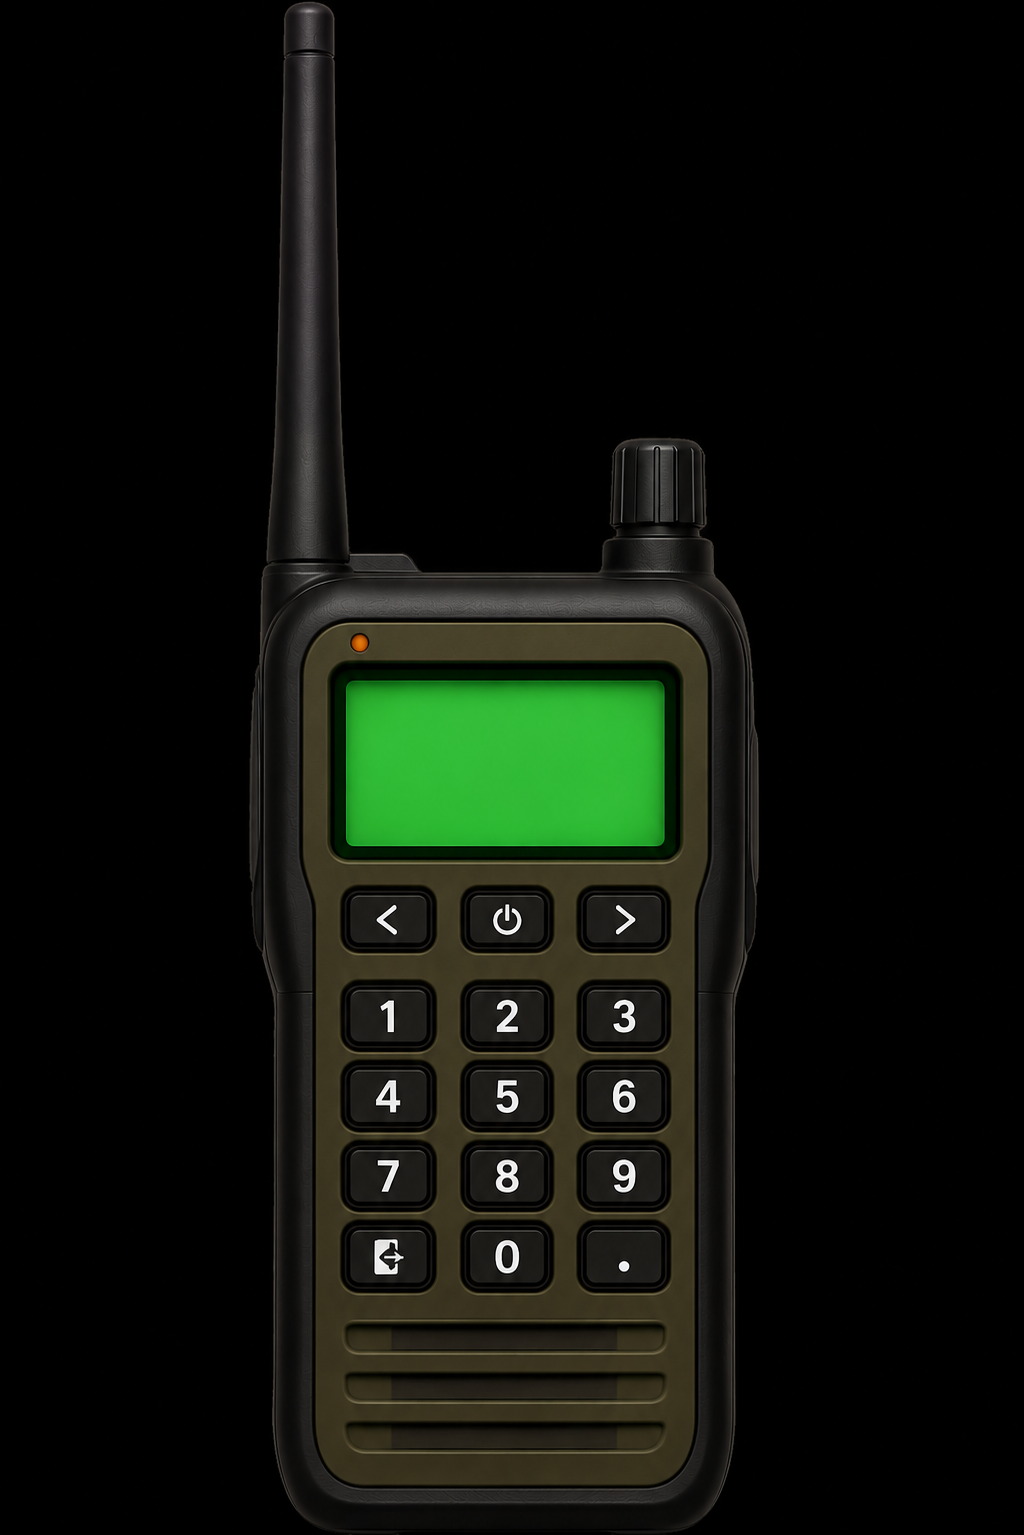
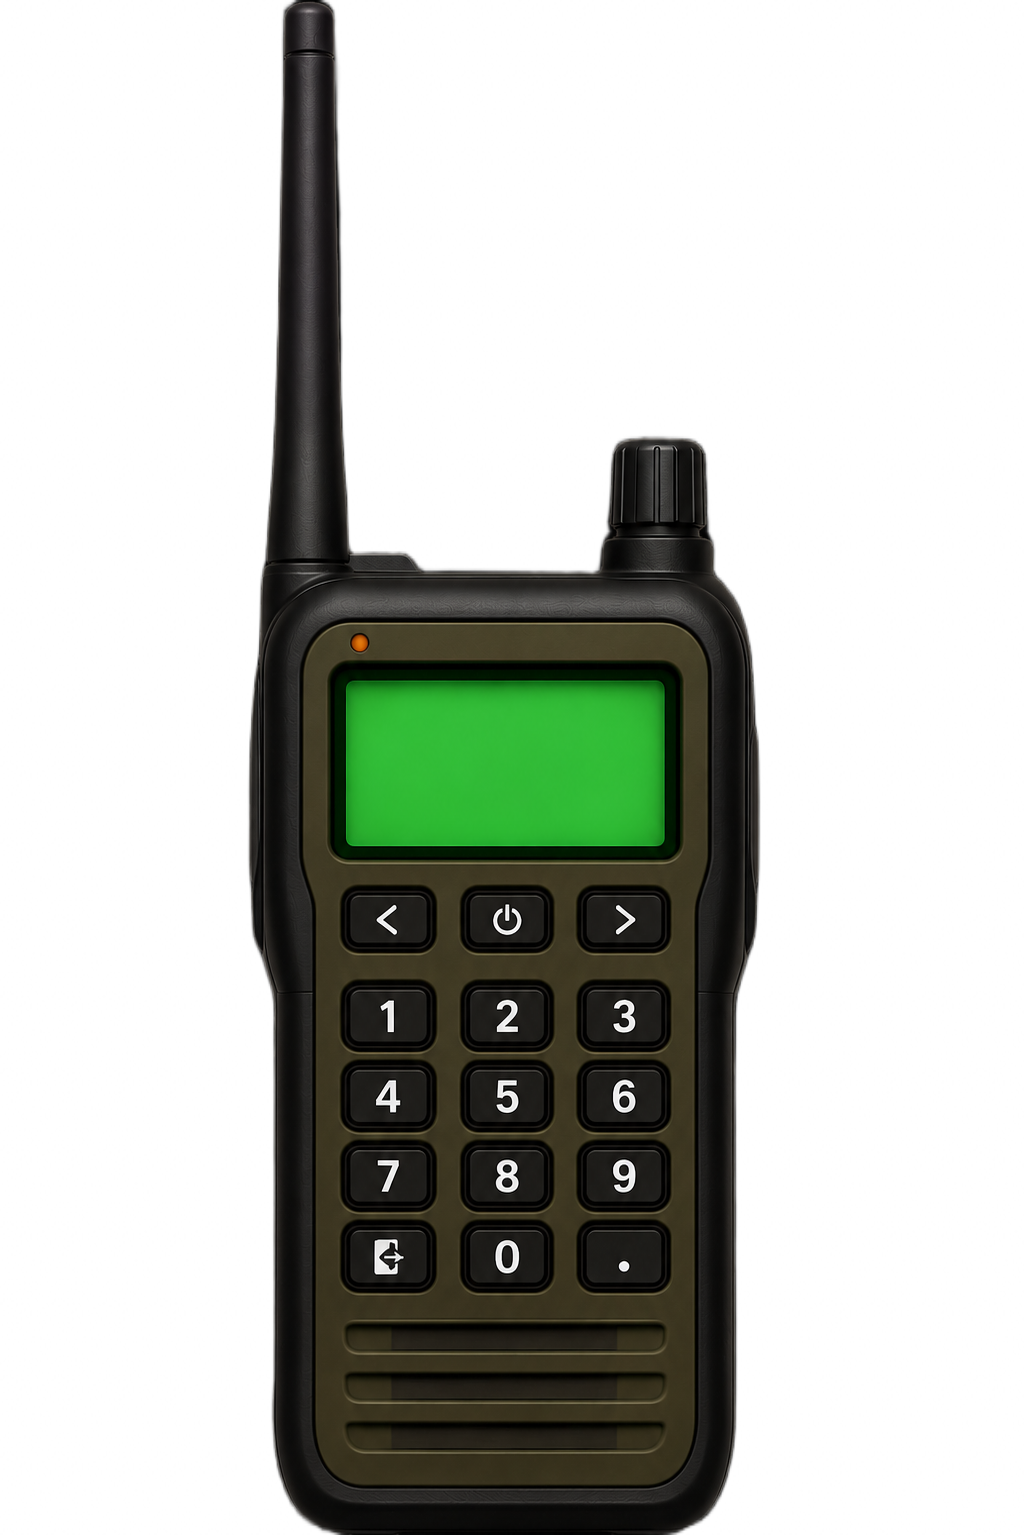
#

diff --git a/resources/[standalone]/lenix_snipets/src/web/src/apps/radio.tsx b/resources/[standalone]/lenix_snipets/src/web/src/apps/radio.tsx
@@ -1,9 +1,63 @@
+import { useEffect, useState } from "react"
+import { DEV } from ".."
+
+const triggerCallback = (callback: string, data: Record<string, any>) => fetch(`https://${(window as any).GetParentResourceName()}/${callback}`, {
+	method: 'post',
+	headers: {
+		'Content-Type': 'application/json; charset=UTF-8',
+	},
+	body: JSON.stringify(data)
+})
+
 export default () => {
+	const [display, setDisplay] = useState(DEV)
+	const [frequency, setFreq] = useState<string>('')
+
+	useEffect(() => {
+		const handler = (event: MessageEvent) => {
+			const { key, value }: {
+				key: 'radio:display'
+				value: boolean
+			} = event.data
+			key === 'radio:display' && setDisplay(value)
+		}
+		
+		window.addEventListener('message', handler)
+		return () => window.removeEventListener('message', handler)
+	}, [])
+
+	window.addEventListener('keydown', (event: KeyboardEvent) => {
+		if (event.key !== 'Escape') return
+		
+		setDisplay(false)
+		triggerCallback('radio:close', {})
+	})
+
 	return (
-		<div className="w-full flex items-end h-full justify-end py-10">
-			<input className="absolute top-3/7 left-1/2 -translate-x-1/2 bg-green-500 max-w-1/3 h-10" type="number" name="freq" id="freq" title="Channel Frequency" />
-			<button className="absolute top-58/100 left-1/2 -translate-x-1/2 cursor-pointer hover:bg-gray-800 w-5 h-3" title="Turn On/Off The Radio"></button>
-			<img className="max-h-100 border border-white" src="/radio.png" />
+		<div className={`w-full flex items-end h-full justify-end py-10 opacity-${display ? '100' : '0'}`}>
+			<div className="relative inline-block">
+			<input 
+				className="absolute top-45/100 left-1/2 -translate-x-1/2 max-w-3/11 h-10 outline-0 text-center [appearance:textfield] [&::-webkit-outer-spin-button]:appearance-none [&::-webkit-inner-spin-button]:appearance-none" 
+				type="number" 
+				name="freq" 
+				id="freq"
+				title="Channel Frequency" 
+				placeholder="0"
+				value={frequency}
+				onChange={event => setFreq(event.currentTarget.value)}
+				onKeyDown={event => {
+					if (event.key !== 'Enter') return
+
+					triggerCallback('radio:frequency', { frequency })
+				}}
+			/>
+				<button
+					className="absolute top-80/100 left-38/100 -translate-x-1/2 cursor-pointer hover:bg-black/20 w-5 h-3"
+					title="Leave the frequency"
+					onClick={() => triggerCallback('radio:leave', {})}
+				/>
+				<img className={`max-h-100 ${DEV && 'border border-white'}`} src="/radio.png" />
+			</div>
 		</div>
 	)
 }

diff --git a/resources/[standalone]/lenix_snipets/src/web/src/apps/hud.tsx b/resources/[standalone]/lenix_snipets/src/web/src/apps/hud.tsx
@@ -21,18 +21,18 @@ export default () => {
 	useEffect(() => {
 		const handler = (event: MessageEvent) => {
 			const { key, value }: {
-				key: 'update:reserve'
+				key: 'hud:update:reserve'
 				value: Reserve
 			} | {
-				key: 'update:clip'
+				key: 'hud:update:clip'
 				value: Clip
 			} | {
-				key: 'display'
+				key: 'hud:display'
 				value: boolean
 			} = event.data
-			key === 'display' && setDisplay(value)
-			key === 'update:clip' && setState(prev => ({ clip: value.clip, reserve: prev.reserve }))
-			key === 'update:reserve' && setState(prev => ({ reserve: value.reserve, clip: prev.clip }))
+			key === 'hud:display' && setDisplay(value)
+			key === 'hud:update:clip' && setState(prev => ({ clip: value.clip, reserve: prev.reserve }))
+			key === 'hud:update:reserve' && setState(prev => ({ reserve: value.reserve, clip: prev.clip }))
 		}
 		
 		window.addEventListener('message', handler)

diff --git a/resources/[standalone]/lenix_snipets/src/client/radio/index.ts b/resources/[standalone]/lenix_snipets/src/client/radio/index.ts
@@ -1,0 +1,25 @@
+on('ox:radio', () => {
+	SendNuiMessage(JSON.stringify({
+		key: 'radio:display',
+		value: true
+	}))
+	SetNuiFocus(true, true)
+	SetNuiFocusKeepInput(true)
+})
+
+RegisterNuiCallback('radio:frequency', (data: { frequency: string }) => {
+	exports['pma-voice'].setRadioChannel(Number(data.frequency))
+	exports['pma-voice'].setVoiceProperty('radioEnabled', true)
+	exports['pma-voice'].setVoiceProperty('micClicks', true)
+})
+
+RegisterNuiCallback('radio:leave', () => {
+	exports['pma-voice'].setRadioChannel(0)
+	exports['pma-voice'].setVoiceProperty('radioEnabled', false)
+	exports['pma-voice'].setVoiceProperty('micClicks', false)
+})
+
+RegisterNuiCallback('radio:close', () => {
+	SetNuiFocus(false, false)
+	SetNuiFocusKeepInput(false)
+})

diff --git a/resources/[standalone]/lenix_snipets/src/client/hud/index.ts b/resources/[standalone]/lenix_snipets/src/client/hud/index.ts
@@ -9,12 +9,12 @@ let turnedOff = false
 
 const updateHud = ({ clip, reserve }: { clip?: string, reserve: string } | { clip: string, reserve?: string }) => {
 	SendNuiMessage(JSON.stringify({
-		key: `update:${clip ? 'clip' : 'reserve'}`,
+		key: `hud:update:${clip ? 'clip' : 'reserve'}`,
 		value: { clip, reserve }
 	}))
 }
 
-const toggleHud = (value: boolean) => SendNuiMessage(JSON.stringify({ key: 'display', value }))
+const toggleHud = (value: boolean) => SendNuiMessage(JSON.stringify({ key: 'hud:display', value }))
 
 
 const getReserve = (ammoName: string): number => exports.ox_inventory.Search('count', ammoName)

diff --git a/resources/[standalone]/lenix_snipets/src/client/index.ts b/resources/[standalone]/lenix_snipets/src/client/index.ts
@@ -14,6 +14,7 @@ import('./interactions')
 import('./weather')
 import('./hud')
 import('./hotel')
+import('./radio')
 
 export type Vector3 = [number, number, number]
 export type Vector4 = [number, number, number, number]

diff --git a/resources/[standalone]/lenix_snipets/src/web/src/index.tsx b/resources/[standalone]/lenix_snipets/src/web/src/index.tsx
@@ -1,5 +1,5 @@
 import Radio from "./apps/radio"
-import Weapon from "./apps/weapon"
+import Weapon from "./apps/hud"
 
 export const DEV: boolean = true
 
